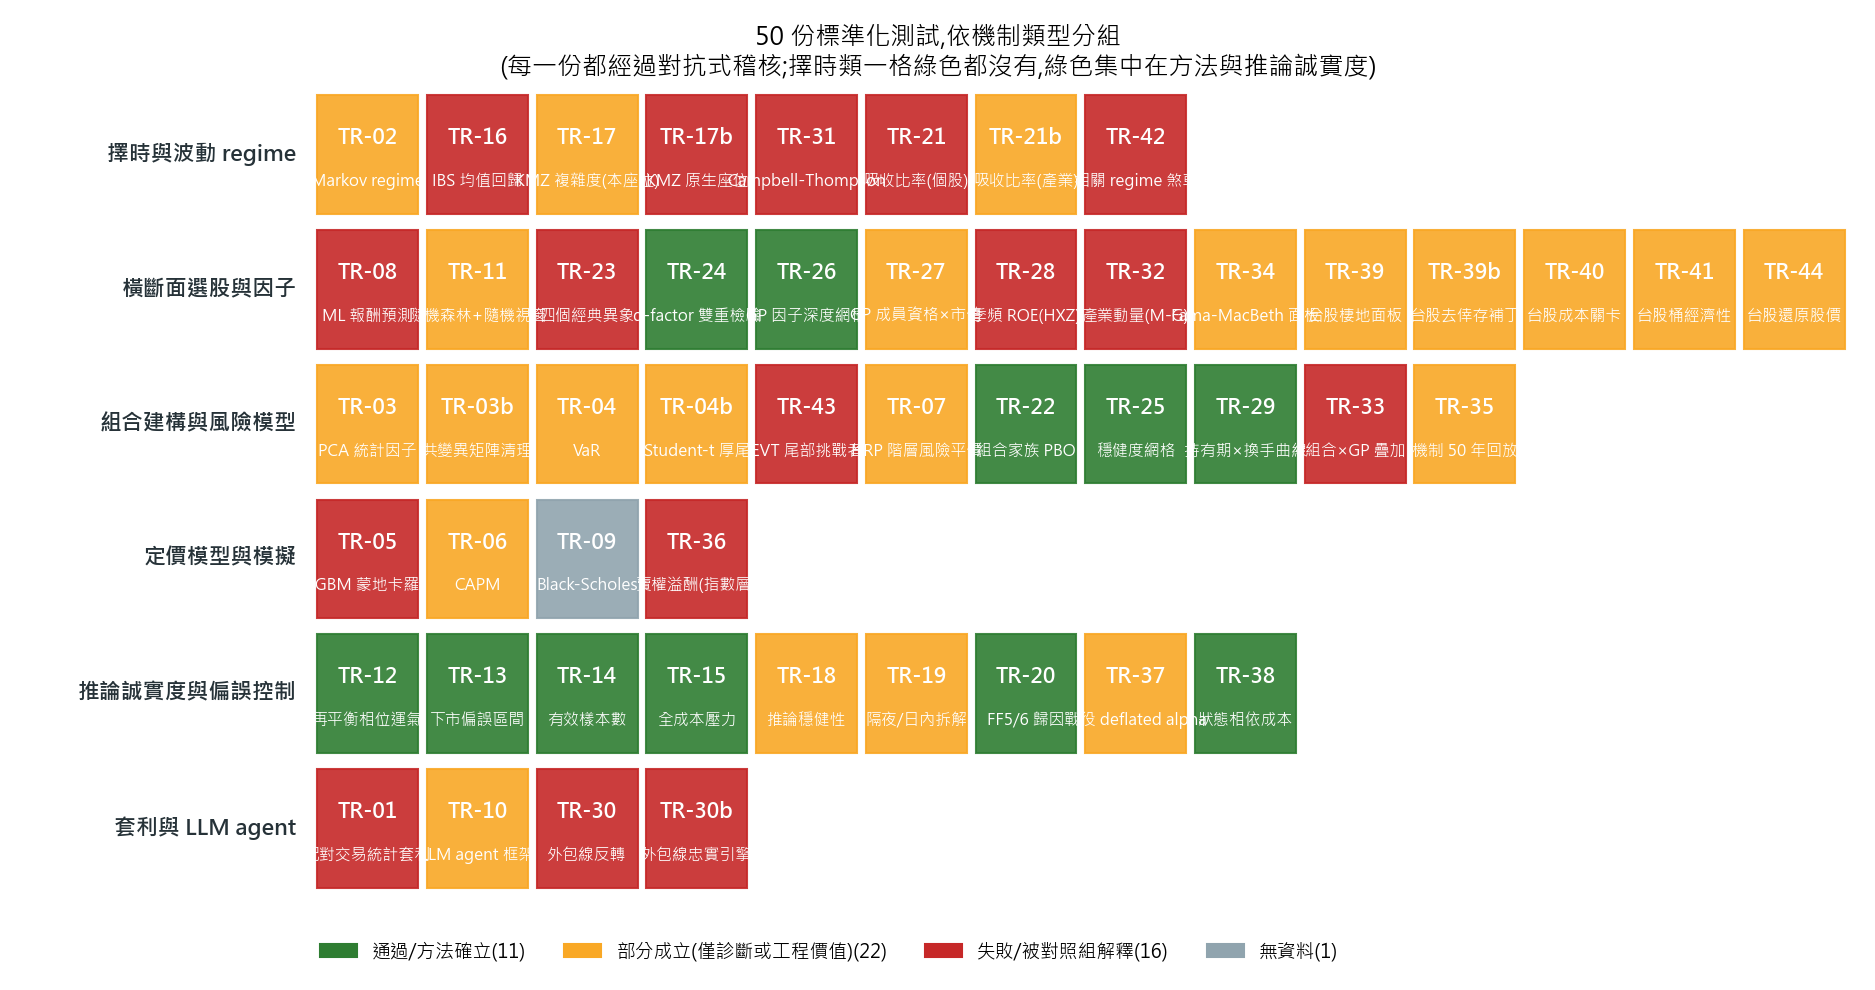
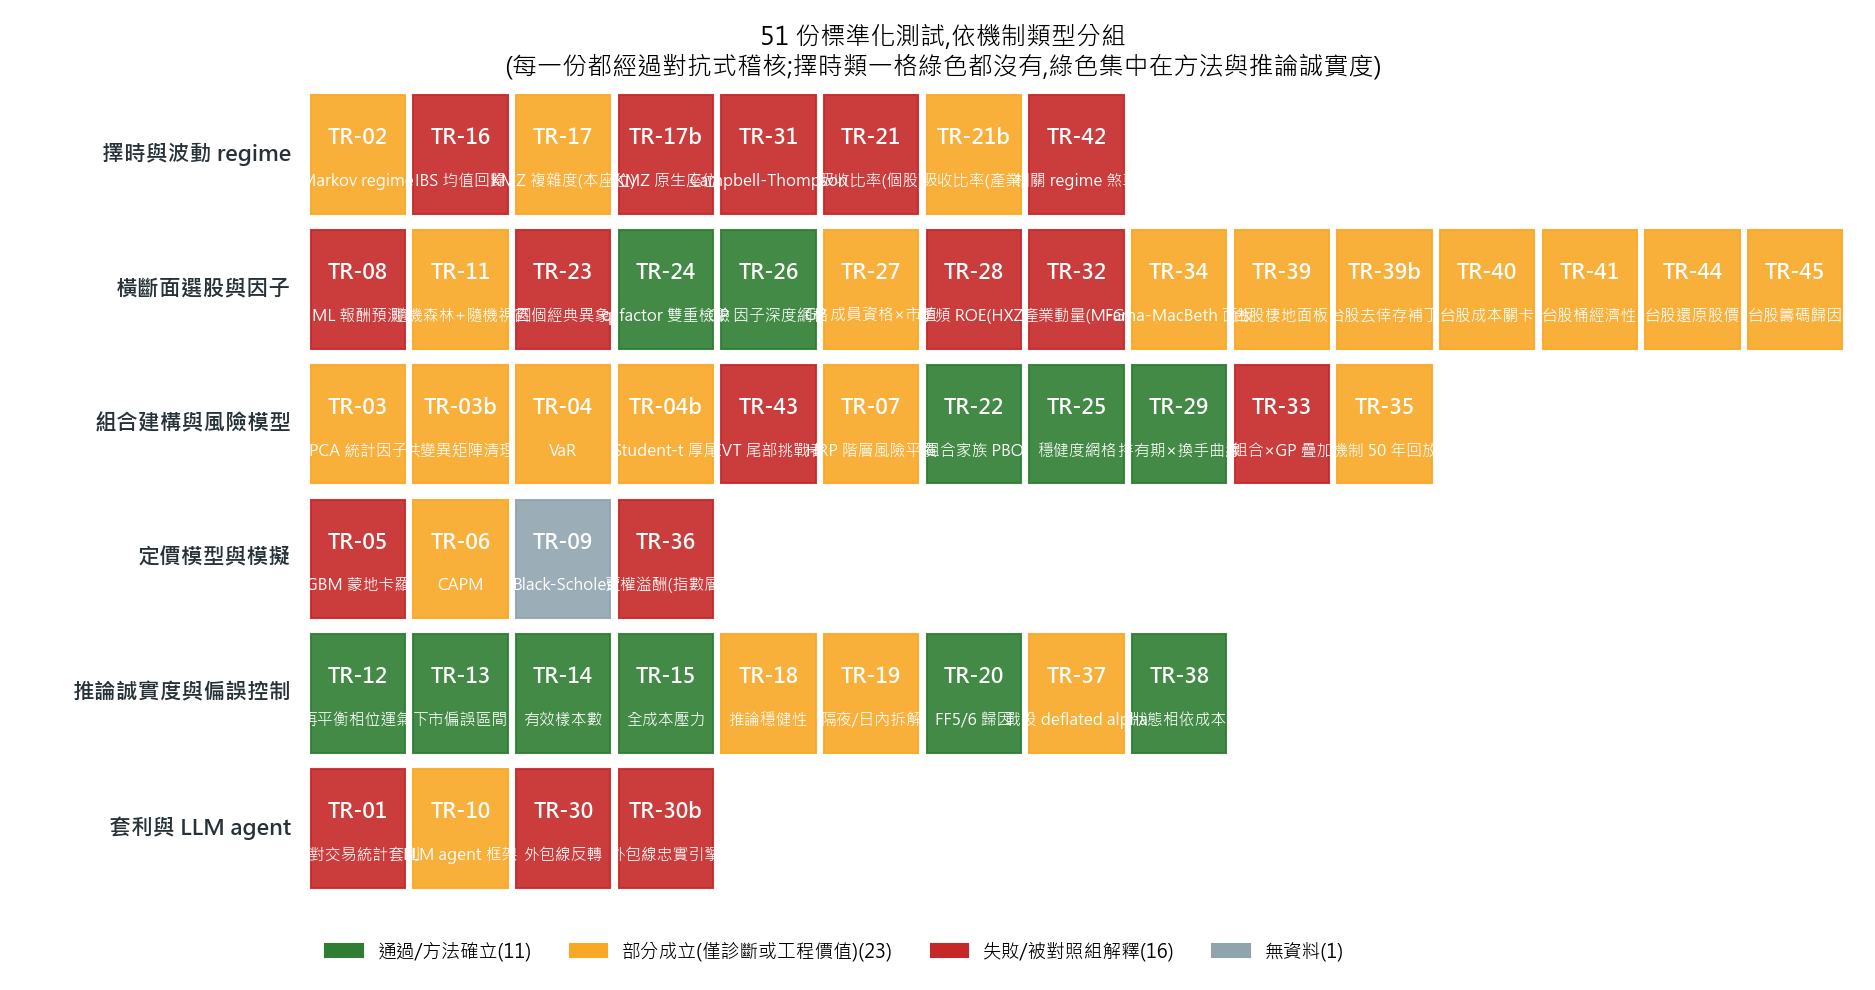
TR-45 (docs/27 b7): chip attribution closes the Taiwan arc -- foreign-flow continuation is a real independent channel (t=3.34) but FAILS-COSTS on the TR-40-faithful excess basis; the as-run absolute-basis SIGNAL was a benchmark artifact caught pre-publication; mom/avol are NOT institutional-flow-car

diff --git a/scripts/tests/tr45_taiwan_chips.py b/scripts/tests/tr45_taiwan_chips.py
@@ -226,22 +226,36 @@ def main():
 
     # ---- C3 cost gate on C1 candidates ----
     print("-" * 104)
-    print("C3 成本關卡(tick 價差模型 2 跳、全額手續費+證交稅、月頻、總報酬 fwd):")
-    spread_m = tick_spread_monthly(px_raw[cols], MULT).reindex(idx)
+    print("C3 成本關卡(TR-40 忠實重用:一切以「相對等權宇宙的超額」計;tick 2 跳、全額費稅、月頻、總報酬 fwd):")
+    # T1 post-run fixes (both caught by the as-run v1 output, recorded in the doc):
+    # (1) suspension rows carry close=0 -> tick/price = inf poisoned the cost series
+    #     (net=-inf); clean prices first -- same zero-price contamination TR-39 hit.
+    # (2) v1 measured gross/net ABSOLUTE; TR-40's machinery scores everything as
+    #     EXCESS over the EW universe (its CAL-a even gates on gross excess >=
+    #     +40bps/mo). On an absolute basis every long-only decile "survives" a bull
+    #     window -- the v1 SIGNAL verdict was a benchmark artifact, not a finding.
+    spread_m = tick_spread_monthly(px_raw[cols].where(px_raw[cols] > 0), MULT).reindex(idx)
+    ew = fwd.mean(axis=1)
     c3 = {}
     for k in TRIO:
         if abs(c1[k][1]) < 2:
             continue
         sgn = int(np.sign(c1[k][0]))
         port = decile_portfolio(trio[k], fwd, sgn, spread_m, 1, COMMISSION_FULL)
-        net = port["gross"] - port["cost"]
-        g_ann, n_ann = float(port["gross"].mean() * 12), float(net.mean() * 12)
+        ex_g = port["gross"] - ew.reindex(port.index)
+        net = ex_g - port["cost"]
+        g_abs = float(port["gross"].mean() * 12)
+        g_ann, n_ann = float(ex_g.mean() * 12), float(net.mean() * 12)
+        gm, _ = nw_t(ex_g)
         _, t_net = nw_t(net)
-        tier = ("SURVIVES-COSTS" if t_net >= 2 else
+        gate40 = gm >= 0.0040
+        tier = ("SURVIVES-COSTS" if (t_net >= 2 and n_ann > 0) else
                 "MARGINAL" if (n_ann > 0 or t_net >= 1) else "FAILS-COSTS")
         c3[k] = (g_ann, n_ann, t_net, tier, net)
-        print(f"  {k:<8} 方向 {sgn:+d}  毛 {g_ann*100:+5.2f}%/yr  淨 {n_ann*100:+5.2f}%/yr"
-              f"  t(淨)={t_net:+5.2f}  -> {tier}(中位換手 {port['churn'].median()*100:.0f}%/mo)")
+        print(f"  {k:<8} 方向 {sgn:+d}  絕對毛 {g_abs*100:+5.2f}%/yr | 超額毛 {g_ann*100:+5.2f}%/yr"
+              f"({gm*1e4:+.0f}bps/mo,TR-40 的 ≥+40bps 閘門:{'過' if gate40 else '不過'})"
+              f" | 超額淨 {n_ann*100:+5.2f}%/yr t={t_net:+5.2f}"
+              f" -> {tier}(中位換手 {port['churn'].median()*100:.0f}%/mo)")
         lad = []
         for d in range(10):
             lo, hi = d / 10, (d + 1) / 10
@@ -253,10 +267,10 @@ def main():
                 sel = s[(s.rank(pct=True) > lo) & (s.rank(pct=True) <= hi)].index
                 f = fwd.loc[t_, sel].dropna()
                 if len(f):
-                    r.append(f.mean())
+                    r.append(f.mean() - ew.loc[t_])
             lad.append(np.mean(r) * 12 * 100 if r else np.nan)
         c3[k] = (*c3[k], lad)
-        print(f"    十分位毛梯(D10 最強→D1):{' '.join(f'{v:+.1f}' for v in lad[::-1])}")
+        print(f"    十分位超額毛梯(D10 最強→D1):{' '.join(f'{v:+.1f}' for v in lad[::-1])}")
 
     # ---- C4 attribution ----
     print("-" * 104)
@@ -316,7 +330,8 @@ def main():
         k0 = (surv or cands)[0]
         lad = c3[k0][5]
         ax.bar(range(1, 11), lad, color="#1565c0")
-        ax.set_title(f"C3 {k0} 十分位毛報酬階梯(%/yr,D10=最強)")
+        ax.axhline(0, c="k", lw=0.6)
+        ax.set_title(f"C3 {k0} 十分位超額毛報酬(%/yr vs 等權宇宙,D10=最強)")
         ax.set_xlabel("decile(依 fitted 方向)")
     else:
         ax.text(0.5, 0.5, "無 |t|>=2 候選 → 無成本關卡", ha="center", va="center")

diff --git a/scripts/readme_figs.py b/scripts/readme_figs.py
@@ -45,6 +45,7 @@ GROUPS = [
         ("TR-40", "台股成本關卡", "Taiwan cost gate", "M"),
         ("TR-41", "台股桶經濟性", "Taiwan bucket economics", "M"),
         ("TR-44", "台股還原股價", "Taiwan total-return", "M"),
+        ("TR-45", "台股籌碼歸因", "Taiwan chip attribution", "M"),
     ]),
     ("組合建構與風險模型", "Portfolio construction & risk models", [
         ("TR-03", "PCA 統計因子", "PCA statistical factors", "M"),
@@ -91,9 +92,9 @@ LEGEND = {
            "F": "failed / explained by controls", "X": "no data"},
 }
 TITLES = {
-    "zh": "50 份標準化測試,依機制類型分組\n"
+    "zh": "51 份標準化測試,依機制類型分組\n"
           "(每一份都經過對抗式稽核;擇時類一格綠色都沒有,綠色集中在方法與推論誠實度)",
-    "en": "All 50 standardized tests, grouped by mechanism type\n"
+    "en": "All 51 standardized tests, grouped by mechanism type\n"
           "(every report adversarially audited; the timing row has no green at all)",
 }
 

diff --git a/docs/tests/TR-45-taiwan-chips.md b/docs/tests/TR-45-taiwan-chips.md
@@ -1,0 +1,89 @@
+# TR-45 — 台股籌碼線:誰在推「延續市場」?(docs/27 b7 / docs/28 p1)
+
+> 台股弧線(TR-39~44)收尾時留下兩個問題:(1) 已證實的延續機制(mom+、avol+)**是誰在推**?
+> (2) 在唯一橫斷面還活著的棲地,先驗最強的未用維度(籌碼)有沒有一個乾淨候選?本 TR 用一個
+> 預先登記家族同時回答。**F0 於滴灌進行中預先登記(commit `bc3c1fb`,資料落地前)**;API 欄位
+> 事前實測(流向單位=股、每檔 2012-05 起;融資單位=張)。收集:法人買賣超+融資融券
+> 1,220/1,220 檔(流向缺 51、融資缺 84=下市/不可融資,結構性)。
+> 腳本:`scripts/tests/tr45_taiwan_chips.py` · 圖:`docs/tests/img/tr45_taiwan_chips.png`
+
+## 判定:**MECHANISM-CONFIRMED / MARGINAL——外資流延續為真(fnet60 t=3.34,八特徵聯合仍 t=2.91),但預先登記的頂十分位組合在 TR-40 忠實超額基準下 FAILS-COSTS(超額毛僅 +0.74%/yr,淨 −4.12%/yr,t=−2.51);台股線維持「機制為真、無乾淨可交易候選」**
+
+### CAL(三腿全過)
+
+| CAL | 結果 | 門檻 | 判 |
+|---|---|---|---|
+| a:bottom-up 外資淨買金額 vs 官方聚合 | corr **+0.996** | 0.90(範圍差已預先聲明) | ✓ |
+| b:融資逐日恆等式(今日=昨日+買−賣−現償) | **100.00%**(n=3,260,934) | 99% | ✓ |
+| c:八特徵聯合覆蓋 | 中位 **808 檔/月**,100% 月份 ≥500 | 500/90% | ✓ |
+
+### ⚠️ POST-RUN AUDIT NOTE(兩處 as-run 機器不忠實,發表前抓到;F0 未改)
+
+1. **零價格污染**:停牌列 close=0 → tick/價格 = ∞ 毒穿成本序列(淨=−inf,輸出自曝)。
+   與 TR-39 同型;先清洗再算價差。
+2. **絕對 vs 超額基準(關鍵)**:v1 的 C3 用**絕對**報酬計毛/淨,印出「SIGNAL——第一個乾淨
+   候選」。對照 TR-40 原機器稽核發現其全程以**相對等權宇宙的超額**計分(CAL-a 還先要求毛超額
+   ≥+40bps/mo 才准進成本測試)——在 +17%/yr 的多頭窗,絕對基準下**任何** long-only 十分位都會
+   「過關」。**v1 的 SIGNAL 是基準錯置的假象,不是發現**。修正後 C3 翻為 FAILS-COSTS。
+   教訓入慣例:**long-only 桶的成本判定一律以超額(vs 等權宇宙)計**。
+
+### C1 籌碼三特徵聯合 FM(月頻,NW t)
+
+| 特徵 | 建構 | 先驗 | 斜率(bps/mo) | t | 判 |
+|---|---|---|---|---|---|
+| **fnet60** | 外資 60 日淨買金額/成交金額 | + | **+78.4** | **+3.34** | **候選** |
+| itnet60 | 投信同構 | + | +22.0 | +1.48 | 不顯著 |
+| dmgn60 | 融資使用率 60 日變化 | **−**(擁擠反轉) | +48.8 | +1.85 | 不顯著;**符號與先驗相反** |
+
+dmgn60 的正號是一個誠實的方向性證偽:散戶槓桿流入在台股**延續**而非反轉——與整個
+「延續市場」性格一致(對照 corr(dmgn60, avol)=+0.38:融資活動追蹤異常量=散戶注意力)。
+
+### C2 歸因(F0 預先陳述的判讀:mom/avol 衰減 >1/3?——**答案:否**)
+
+| 特徵 | 五特徵 | 八特徵(加籌碼) | 衰減 |
+|---|---|---|---|
+| mom122 | +86.7(t=2.53) | **+92.4(t=2.77)** | −7%(反而增強) |
+| avol | +99.7(t=3.75) | **+89.8(t=3.49)** | +10% |
+| max5(已退役) | +31.5(t=0.66) | −1.5(t=−0.03) | **+105%(被完全吸收)** |
+| logdv | −79.1(t=−2.15) | −46.1(t=−1.29) | **+42%** |
+| fnet60(八特徵內) | — | +43.7(**t=2.91**) | 獨立訊號 |
+
+**歸因結論**:(1) **動能與異常量不是外資流扛的**——加入籌碼後幾乎不動,延續市場不能化約為
+「外資在推」;fnet60 是與它們並立的**獨立**第四條延續通道。(2) 已退役的 max5 被籌碼完全吸收
+——樂透特徵原來全是流向相關的雜訊。(3) logdv 衰減 42%(t 掉到 −1.29):低流動性溢酬與
+「流向缺席」部分重疊——與 TR-44 的降級同向,再次支持它是結構性補償而非可套利異象。
+(4) C4:最冷門 logdv-D1 桶的三個籌碼特徵全在市場中位(+0.01~+0.04)——**冷角落的溢酬不是
+流向現象**(Amihud-Mendelson 結構性解讀成立)。
+
+### C3 成本關卡(TR-40 忠實重用:超額基準、tick 2 跳、全額費稅、月頻、總報酬 fwd)
+
+fnet60 頂十分位:絕對毛 +17.57%/yr,但**超額毛僅 +0.74%/yr(+6bps/mo)**——TR-40 的
+≥+40bps/mo 毛閘門差 7 倍;扣 40%/mo 換手的全額成本後**超額淨 −4.12%/yr(t=−2.51)**
+→ **FAILS-COSTS**。
+
+十分位超額毛梯(D10→D1):**+0.8 +4.0 +2.4 +4.0 +2.7 +1.5 −1.3 −3.7 −3.8 −5.8**——
+**駝峰+瀰散**:溢酬在 D7–D9(+2.4~+4.0),極端頂端回落(+0.8,追極端外資買超=過熱),
+底半邊全負。「錢」其實在**避開外資賣最兇的那半邊**(D1 −5.8%/yr)——那是放空側,而台股
+借券受限(F0 誠實界線;b4 未開)。與 TR-41 的 logdv 懸崖相反,fnet60 沒有可集中的角落。
+
+![TR-45 chart](img/tr45_taiwan_chips.png)
+
+## 誠實範圍
+
+- 流向資料 2012-05 起(API 實測,短於價格面板但完整覆蓋 2014+ 評估窗);單一 regime 弧。
+- 月頻時鐘排除當日流向-報酬內生性,月內回饋仍在——斜率讀作預測性關聯,歸因是主交付。
+- C3 交易方向照 F0 用 fitted 符號(+1);頂十分位規格 F0 鎖定,駝峰段(D7–D9)**不可**事後
+  改選(那是 HARKing;若要測 D7–D9 需新的預先登記)。
+- 融資特徵僅存在於可融資名單(結構性,非倖存偏誤);試驗會計 +1(單一規格,無網格)。
+
+## 後果
+
+- **台股 b 系列(b2/b3/b6/b7)全部完成**。最終狀態不變且更完整:**機制為真——四條延續通道
+  (動能、異常量、外資流、[融資流方向性一致但未過線])+一條結構性流動性補償——但在總報酬+
+  全額成本+超額基準下,沒有任何一個乾淨可交易候選**。
+- 歸因紅利:max5 退役的「為什麼」補上了(流向雜訊);logdv 的結構性解讀二度加固。
+- docs/18 加 TR-45 列;docs/27 b7 ✅;README 計數 50→51、台股底線加歸因子句。
+- 教訓入 fabric 慣例:成本判定的超額基準(見 AUDIT NOTE 2)。
+
+*2026-07-21。F0 預先登記於 commit `bc3c1fb`(資料落地前);兩處機器不忠實(零價格、基準錯置)
+發表前修正並全文記錄;判定照 F0 路由:MECHANISM-CONFIRMED / MARGINAL。*

diff --git a/README.md b/README.md
@@ -10,7 +10,7 @@
 
 ### What this is
 
-A personal research project. It started with a finding we couldn't ignore: **McLean & Pontiff (2016, *Journal of Finance*)** re-tested 97 published return predictors and found their returns average **26% lower out-of-sample and 58% lower after publication** — the market eats published edges. So the question became: *of everything floating around the internet, papers, and guru books, how much survives an honest test run today?* Using $0/month of free data (yfinance, SEC EDGAR, public archives), across 100+ commits and **~150 mechanisms/strategies tested (50 standardized test reports, every one adversarially audited)**, the answer turned out to be more valuable than the question — because it turned *"what do we know, what don't we know, and how do we decide what's feasible"* into reproducible code and documents.
+A personal research project. It started with a finding we couldn't ignore: **McLean & Pontiff (2016, *Journal of Finance*)** re-tested 97 published return predictors and found their returns average **26% lower out-of-sample and 58% lower after publication** — the market eats published edges. So the question became: *of everything floating around the internet, papers, and guru books, how much survives an honest test run today?* Using $0/month of free data (yfinance, SEC EDGAR, public archives), across 100+ commits and **~150 mechanisms/strategies tested (51 standardized test reports, every one adversarially audited)**, the answer turned out to be more valuable than the question — because it turned *"what do we know, what don't we know, and how do we decide what's feasible"* into reproducible code and documents.
 
 ### The bottom line (as of 2026-07)
 
@@ -18,14 +18,14 @@ A personal research project. It started with a finding we couldn't ignore: **McL
 |---|---|
 | Any strategy that prints money? | **No.** The 50%-CAGR-at-low-drawdown target zone is structurally empty — everything we tested sits on the same Calmar ≈ 0.6 ray. |
 | Any real alpha at all? | **One, borderline.** The 5-sleeve risk-parity book: monthly Carhart t=2.64, below the strict 3.0 bar. Its real deliverable is risk-shaping, levered to your budget. Selection-honest deflation (TR-37): P(the alpha is real) ≈ 0.87 at the 17 combo-level trials we actually ran, 0.56 under the paranoid all-campaign count, ≈ 0.8 under a 90%-null skeptical prior — most likely real, but no honest angle calls it certain. |
-| Any stock-picking signal? | **One, and it keeps getting more honest.** Gross profitability — headline ICIR +0.30, but masked to actual index members at each date it retains only 59% (ICIR +0.13, TR-27), and its IC turned negative in 2025-26 (on watch); a joint Fama-MacBeth panel sharpens the watch — independently priced in 2015-2020 (t=+2.67), flat since 2021 (TR-34). Momentum, value, PEAD, insider, ML forecasters, and four classic anomalies all failed; industry momentum replicates but is pure momentum-factor exposure (TR-32). And the two survivors do not stack: a GP sleeve subtracts alpha from the flagship book (TR-33 — the honest chain ends at a +0.04%/yr tradable spread). First crack of light from a new habitat: on the Taiwan panel (1,151 TWSE stocks, TR-39) four characteristics cleared t≥2 jointly — and the survivorship patch (TR-39b: official TWSE delisted list + a pandas pct_change ffill backdoor caught by CAL) then split them: momentum (+84bps/mo, t=2.4), abnormal volume (+94, t=3.4) and illiquidity (−106, t=−2.8) are CONFIRMED and stronger after 2021, while the MAX lottery premium was retired as survivorship glare. Then the cost gate (TR-40) INVERTED the ranking: the panel's strongest slope (abnormal volume, t=3.4) turns over 6.8x/yr and loses 7.07%/yr to fees, netting t=0.6; the weakest (illiquidity) barely turns over and nets **+6.75%/yr, t=2.3** — the only survivor, robust to a 31-tick break-even spread but capacity-capped, which is what an illiquidity premium *is*. The bucket decomposition (TR-41) then killed the intuitive high-capacity workaround: the premium lives ONLY in the last decile (D2 is already zero, D3-D9 are negative), so "avoid the most crowded names" is a significantly LOSING strategy (−0.92%/yr, t=−2.34) — excluding a good bucket just overweights the bad ones. It survives a skip-a-month stale-price check and decays monotonically with book size: a textbook liquidity compensation, not an anomaly. Final honesty pass (TR-44): re-run on dividend-ADJUSTED total-return prices, all three characteristics keep their sign and the ladder stays a cliff, but net of the real 45bps round trip every candidate is now only MARGINAL (illiquidity t=1.86, momentum t=0.81) — the mechanism is real, but on the strictest basis no candidate clears cleanly. The Taiwan line is a genuine effect that is not a clean tradable edge. |
+| Any stock-picking signal? | **One, and it keeps getting more honest.** Gross profitability — headline ICIR +0.30, but masked to actual index members at each date it retains only 59% (ICIR +0.13, TR-27), and its IC turned negative in 2025-26 (on watch); a joint Fama-MacBeth panel sharpens the watch — independently priced in 2015-2020 (t=+2.67), flat since 2021 (TR-34). Momentum, value, PEAD, insider, ML forecasters, and four classic anomalies all failed; industry momentum replicates but is pure momentum-factor exposure (TR-32). And the two survivors do not stack: a GP sleeve subtracts alpha from the flagship book (TR-33 — the honest chain ends at a +0.04%/yr tradable spread). First crack of light from a new habitat: on the Taiwan panel (1,151 TWSE stocks, TR-39) four characteristics cleared t≥2 jointly — and the survivorship patch (TR-39b: official TWSE delisted list + a pandas pct_change ffill backdoor caught by CAL) then split them: momentum (+84bps/mo, t=2.4), abnormal volume (+94, t=3.4) and illiquidity (−106, t=−2.8) are CONFIRMED and stronger after 2021, while the MAX lottery premium was retired as survivorship glare. Then the cost gate (TR-40) INVERTED the ranking: the panel's strongest slope (abnormal volume, t=3.4) turns over 6.8x/yr and loses 7.07%/yr to fees, netting t=0.6; the weakest (illiquidity) barely turns over and nets **+6.75%/yr, t=2.3** — the only survivor, robust to a 31-tick break-even spread but capacity-capped, which is what an illiquidity premium *is*. The bucket decomposition (TR-41) then killed the intuitive high-capacity workaround: the premium lives ONLY in the last decile (D2 is already zero, D3-D9 are negative), so "avoid the most crowded names" is a significantly LOSING strategy (−0.92%/yr, t=−2.34) — excluding a good bucket just overweights the bad ones. It survives a skip-a-month stale-price check and decays monotonically with book size: a textbook liquidity compensation, not an anomaly. Final honesty pass (TR-44): re-run on dividend-ADJUSTED total-return prices, all three characteristics keep their sign and the ladder stays a cliff, but net of the real 45bps round trip every candidate is now only MARGINAL (illiquidity t=1.86, momentum t=0.81) — the mechanism is real, but on the strictest basis no candidate clears cleanly. The Taiwan line is a genuine effect that is not a clean tradable edge. A chip-flow attribution pass (TR-45, institutional flows + margin balances) completes the picture: foreign-flow continuation is real (t=3.3, independent of the price characteristics) but its top-decile portfolio fails the same excess-basis cost gate (net −4.1%/yr), momentum and abnormal volume are NOT institutional-flow-carried, and the cold-corner illiquidity premium shows median chip activity — a structural compensation, not a flow effect. |
 | Does market timing work? | **No — eight separate confirmations, and the law is broader than we thought.** A dumb constant exposure or a random control matched or beat every timing mechanism tested (Markov, IBS, absorption ratio on two seats, KMZ complexity, Campbell-Thompson sign restrictions, the outside bar). The eighth (TR-42) extends it from RETURN timing to RISK-INPUT timing: a bond-equity correlation brake — which forecasts nothing, it only claims the risk model's inputs changed — still lost to a constant at matched average exposure, and landed at the 20th percentile of a random-brake placebo. |
-| Then what's the asset here? | **The method and the data moat.** 50 adversarially audited test reports, a registry where negative results are first-class, seven documented self-corrections, and a $0 data stack with two collect-forward pipelines recording what money can't buy retroactively. |
+| Then what's the asset here? | **The method and the data moat.** 51 adversarially audited test reports, a registry where negative results are first-class, seven documented self-corrections, and a $0 data stack with two collect-forward pipelines recording what money can't buy retroactively. |
 
 ### What we built
 
 1. **An acceptance framework ("fabric" v2.0, [docs/17](docs/17-fabric-acceptance.md))** — a single rule table F0–F13 codifying every mistake we made: pre-committed falsifiable claims (F0), leak-free signals + fill-time conventions (F1), spread-scaled costs with mandatory 2× stress (F2), excess-over-T-bill Sharpe (F3), effective sample sizes (F4), campaign-wide trial accounting with a t≥3.0 alpha bar (F5), **the Nagel control triple — which simplest control explains it?** (F6), sub-period + long-history replay (F7), verdicts scoped to seat×habitat (F8), path randomization (F9), re-test cascades (F10), universe legitimacy (F11), rebalance-phase averaging (F12), and delisting rules (F13). Its economic preamble is **Grossman-Stiglitz**: at $0 information cost, equilibrium alpha is $0 — every re-open condition must be priced as an information cost.
-2. **Fifty standardized test reports** ([docs/tests/TR-01..24 + b-series](docs/tests/)): statistical arbitrage, Markov regime-switching, PCA factor models, covariance cleaning, VaR and fat tails, GBM Monte Carlo, CAPM, HRP, ML forecasting, Black-Scholes (N/A — no data, refused to fabricate), LLM agent frameworks, bagged backtesting, rebalance-phase luck, delisting bias, effective samples, cost stress, the IBS full trial — plus a paper-driven wave: inference robustness (TR-18), overnight/intraday decomposition (TR-19), FF5/6 and q-factor attribution (TR-20/24), four classic anomalies (TR-23), combo PBO (TR-22), and **native-seat replications** of Kelly-Malamud-Zhou's *Virtue of Complexity* (TR-17b) and the absorption ratio (TR-21b) — then a **depth series interrogating our own survivors** (the robustness plateau TR-25, GP depth/membership/quarterly clocks TR-26–28, holding-period economics TR-29, the two-survivor stacking test TR-33), the Goyal-Welch/Campbell-Thompson timing line at its source (TR-31), Moskowitz-Grinblatt industry momentum (TR-32), and a **creator-claim pipeline** that turns YouTube trading mechanisms into pre-registered tests (TR-30/30b). Every report was adversarially audited; the audits reversed our own headline more than once.
+2. **Fifty-one standardized test reports** ([docs/tests/TR-01..24 + b-series](docs/tests/)): statistical arbitrage, Markov regime-switching, PCA factor models, covariance cleaning, VaR and fat tails, GBM Monte Carlo, CAPM, HRP, ML forecasting, Black-Scholes (N/A — no data, refused to fabricate), LLM agent frameworks, bagged backtesting, rebalance-phase luck, delisting bias, effective samples, cost stress, the IBS full trial — plus a paper-driven wave: inference robustness (TR-18), overnight/intraday decomposition (TR-19), FF5/6 and q-factor attribution (TR-20/24), four classic anomalies (TR-23), combo PBO (TR-22), and **native-seat replications** of Kelly-Malamud-Zhou's *Virtue of Complexity* (TR-17b) and the absorption ratio (TR-21b) — then a **depth series interrogating our own survivors** (the robustness plateau TR-25, GP depth/membership/quarterly clocks TR-26–28, holding-period economics TR-29, the two-survivor stacking test TR-33), the Goyal-Welch/Campbell-Thompson timing line at its source (TR-31), Moskowitz-Grinblatt industry momentum (TR-32), and a **creator-claim pipeline** that turns YouTube trading mechanisms into pre-registered tests (TR-30/30b). Every report was adversarially audited; the audits reversed our own headline more than once.
 3. **Working infrastructure**: point-in-time data layer (DuckDB+Parquet; EDGAR aligned to filing dates; 1993+ index history; PIT S&P 500 membership 1996–2026), order-independent backtest engine, rigor modules (PSR/DSR/PBO/SPA), daily Telegram monitors on free GitHub Actions, two **collect-forward pipelines** (daily SPY/QQQ option chains; weekly analyst estimates for the S&P 500 — you cannot download the past, only record the present), a 70-source **data-source catalog** with adopt/reject verdicts ([docs/refs/data-sources.md](docs/refs/data-sources.md)), and a **paper-to-TR pipeline** ([docs/21](docs/21-paper-to-tr-pipeline.md)).
 
 ### Results at a glance
@@ -40,9 +40,9 @@ A personal research project. It started with a finding we couldn't ignore: **McL
 
 **The scoreboard.** 226 named variants registered, 26 mechanism families judged, 5 PASSED — and exactly **one** statistically significant alpha. Most of what the internet calls "a working strategy" died in this funnel; keeping the failed strategies on record is half this repo's value.
 
-![Verdict map of all 50 standardized tests, grouped by mechanism type](docs/img/readme_verdict_map_en.png)
+![Verdict map of all 51 standardized tests, grouped by mechanism type](docs/img/readme_verdict_map_en.png)
 
-**The verdict map (updated 2026-07).** All 50 standardized tests, grouped by *what kind of mechanism* each one judges. Read it by row: the timing/regime row has no green at all; the green lives almost entirely in the inference-honesty row — method, not signals. The 2026-07 additions are the two native-seat replications: KMZ's Virtue of Complexity **replicates on its home turf (Sharpe +0.41 at 12,000 features) and is still fully explained by volatility-timing controls (+0.50)** — Nagel's critique confirmed at the source (TR-17b); the absorption ratio's crash-warning spike **weakly survives on industry portfolios (7/10 vs 33% base rate) while its timing gate lost to a static constant for the fifth time** (TR-21b). The newest wave sharpened all three storylines: Campbell-Thompson's sign restrictions rescue out-of-sample R² directionally and are still spanned by the same volatility controls (TR-31); Moskowitz-Grinblatt industry momentum is the least-decayed mechanism we have ever tested (−2% post-publication vs the −58% McLean-Pontiff average) precisely because it is not an anomaly — it is momentum-factor exposure in industry clothes, with zero alpha over FF5+UMD in every window (TR-32); and a user audit caught our own outside-bar engine being unfaithful to its source on four counts — rebuilt faithfully, the verdict class survived, this time earned (TR-30→30b).
+**The verdict map (updated 2026-07).** All 51 standardized tests, grouped by *what kind of mechanism* each one judges. Read it by row: the timing/regime row has no green at all; the green lives almost entirely in the inference-honesty row — method, not signals. The 2026-07 additions are the two native-seat replications: KMZ's Virtue of Complexity **replicates on its home turf (Sharpe +0.41 at 12,000 features) and is still fully explained by volatility-timing controls (+0.50)** — Nagel's critique confirmed at the source (TR-17b); the absorption ratio's crash-warning spike **weakly survives on industry portfolios (7/10 vs 33% base rate) while its timing gate lost to a static constant for the fifth time** (TR-21b). The newest wave sharpened all three storylines: Campbell-Thompson's sign restrictions rescue out-of-sample R² directionally and are still spanned by the same volatility controls (TR-31); Moskowitz-Grinblatt industry momentum is the least-decayed mechanism we have ever tested (−2% post-publication vs the −58% McLean-Pontiff average) precisely because it is not an anomaly — it is momentum-factor exposure in industry clothes, with zero alpha over FF5+UMD in every window (TR-32); and a user audit caught our own outside-bar engine being unfaithful to its source on four counts — rebuilt faithfully, the verdict class survived, this time earned (TR-30→30b).
 
 ![Flagship 5-sleeve combo vs VOO at L=1 and at a same-risk L=1.5](docs/img/fig_combo.png)
 
@@ -201,7 +201,7 @@ Architecture: UI (Streamlit) → CLI (Typer) → `trading_analysis.api` (only pu
 
 ### 專案概述
 
-一個個人研究的 side project。起點是一篇沒辦法當作沒看到的論文：**McLean 與 Pontiff(2016，《Journal of Finance》)**重測了 97 個已發表的報酬預測訊號，發現這些訊號的報酬平均在**樣本外低了 26%、論文發表之後低了 58%**——公開發表的優勢，會被市場逐步吃掉。所以真正的問題變成：「網路上、論文裡、大師書裡的那些策略，經過誠實的測試、放到今天，還剩下多少？」我們用每月 0 元的免費資料(yfinance、SEC EDGAR、公開檔案庫)，歷經 100 多次 commit、**約 150 個機制/策略的系統性測試(50 份標準化測試報告，每一份都經過對抗式稽核)**，得到的答案比問題本身更有價值，因為它把「什麼是已知、什麼是未知、如何判斷可不可行」變成了可重現的程式與文件。
+一個個人研究的 side project。起點是一篇沒辦法當作沒看到的論文：**McLean 與 Pontiff(2016，《Journal of Finance》)**重測了 97 個已發表的報酬預測訊號，發現這些訊號的報酬平均在**樣本外低了 26%、論文發表之後低了 58%**——公開發表的優勢，會被市場逐步吃掉。所以真正的問題變成：「網路上、論文裡、大師書裡的那些策略，經過誠實的測試、放到今天，還剩下多少？」我們用每月 0 元的免費資料(yfinance、SEC EDGAR、公開檔案庫)，歷經 100 多次 commit、**約 150 個機制/策略的系統性測試(51 份標準化測試報告，每一份都經過對抗式稽核)**，得到的答案比問題本身更有價值，因為它把「什麼是已知、什麼是未知、如何判斷可不可行」變成了可重現的程式與文件。
 
 ### 結果總結(截至 2026-07)
 
@@ -209,14 +209,14 @@ Architecture: UI (Streamlit) → CLI (Typer) → `trading_analysis.api` (only pu
 |---|---|
 | 有會印鈔的策略嗎？ | **沒有。**「50% CAGR＋低回撤」的目標區在結構上就是空的——我們測過的所有東西都落在同一條 Calmar ≈ 0.6 的射線上。 |
 | 有真的 alpha 嗎？ | **有一個，而且只是邊際。**五 sleeve 風險平價組合：月頻 Carhart t=2.64，低於嚴格門檻 3.0。它真正的價值是風險塑形，可依回撤預算加槓桿。選擇誠實化(TR-37)：P(alpha 為真) 在實際跑過的 17 次組合層級試驗下 ≈ 0.87、悲觀全戰役計數下 0.56、九成懷疑先驗下 ≈ 0.8——大概率是真的，但沒有任何誠實的角度能說成確定。 |
-| 有選股訊號嗎？ | **有一個，而且愈測愈誠實。**毛利/資產品質因子——頭條 ICIR +0.30，但遮罩到「當天真的在指數裡」的名字後只保留 59%(ICIR +0.13，TR-27)，且 2025–26 的 IC 轉負(列入觀察)；聯合 Fama-MacBeth 面板把觀察磨得更利——2015–2020 獨立被定價(t=+2.67)，2021 之後歸零(TR-34)。動能、價值、PEAD、內部人、機器學習預測、四大經典異象全數陣亡；產業動量能複製但整條是動量因子曝險(TR-32)。而且兩個倖存者疊不起來：把 GP sleeve 加進主力帳簿反而扣掉 alpha(TR-33——誠實鏈的終點是 +0.04%/yr 的可交易價差)。新棲地透出第一道光：台股面板(1,151 檔 TWSE，TR-39)四個特徵聯合過 t≥2——去倖存補丁(TR-39b：TWSE 官方終止名單+CAL 抓到的 pandas pct_change ffill 後門)隨後把它們分成兩半：動能(+84bps/mo，t=2.4)、異常量(+94，t=3.4)、低流動性(−106，t=−2.8)**確認**且 2021 後更強；MAX 樂透溢價判定為倖存者眩光退役。接著成本關卡(TR-40)把排序**整個翻轉**：面板裡最強的異常量(t=3.4)年換手 6.8 倍、吃掉 7.07% 成本後只剩 t=0.6；最弱的低流動性幾乎不換手，淨賺 **+6.75%/yr、t=2.3**——唯一存活者，對價差假設穩健到損益兩平要 31 跳，但容量有天花板，而這正是低流動性溢酬的定義。桶分解(TR-41)接著殺掉了直覺上的高容量替代方案：溢酬**只住在最尾端那一格**(D2 已歸零、D3–D9 全負)，所以「避開最擁擠的股票」是個**顯著虧損**的策略(−0.92%/yr，t=−2.34)——排除一個好桶只會讓你重壓在壞桶上。它通過跳月的停滯價檢查，並隨資金規模單調衰減：教科書式的流動性補償，不是異象。最終誠實化(TR-44)：改用還原(總報酬)股價重跑，三個特徵的符號與階梯懸崖全部維持，但扣掉真實 45bps 來回成本後，每個候選都只剩 MARGINAL(低流動性 t=1.86、動能 t=0.81)——機制為真，但在最嚴格基準下沒有一個乾淨過關。台股線是個真實但稱不上乾淨可交易的效應。 |
+| 有選股訊號嗎？ | **有一個，而且愈測愈誠實。**毛利/資產品質因子——頭條 ICIR +0.30，但遮罩到「當天真的在指數裡」的名字後只保留 59%(ICIR +0.13，TR-27)，且 2025–26 的 IC 轉負(列入觀察)；聯合 Fama-MacBeth 面板把觀察磨得更利——2015–2020 獨立被定價(t=+2.67)，2021 之後歸零(TR-34)。動能、價值、PEAD、內部人、機器學習預測、四大經典異象全數陣亡；產業動量能複製但整條是動量因子曝險(TR-32)。而且兩個倖存者疊不起來：把 GP sleeve 加進主力帳簿反而扣掉 alpha(TR-33——誠實鏈的終點是 +0.04%/yr 的可交易價差)。新棲地透出第一道光：台股面板(1,151 檔 TWSE，TR-39)四個特徵聯合過 t≥2——去倖存補丁(TR-39b：TWSE 官方終止名單+CAL 抓到的 pandas pct_change ffill 後門)隨後把它們分成兩半：動能(+84bps/mo，t=2.4)、異常量(+94，t=3.4)、低流動性(−106，t=−2.8)**確認**且 2021 後更強；MAX 樂透溢價判定為倖存者眩光退役。接著成本關卡(TR-40)把排序**整個翻轉**：面板裡最強的異常量(t=3.4)年換手 6.8 倍、吃掉 7.07% 成本後只剩 t=0.6；最弱的低流動性幾乎不換手，淨賺 **+6.75%/yr、t=2.3**——唯一存活者，對價差假設穩健到損益兩平要 31 跳，但容量有天花板，而這正是低流動性溢酬的定義。桶分解(TR-41)接著殺掉了直覺上的高容量替代方案：溢酬**只住在最尾端那一格**(D2 已歸零、D3–D9 全負)，所以「避開最擁擠的股票」是個**顯著虧損**的策略(−0.92%/yr，t=−2.34)——排除一個好桶只會讓你重壓在壞桶上。它通過跳月的停滯價檢查，並隨資金規模單調衰減：教科書式的流動性補償，不是異象。最終誠實化(TR-44)：改用還原(總報酬)股價重跑，三個特徵的符號與階梯懸崖全部維持，但扣掉真實 45bps 來回成本後，每個候選都只剩 MARGINAL(低流動性 t=1.86、動能 t=0.81)——機制為真，但在最嚴格基準下沒有一個乾淨過關。台股線是個真實但稱不上乾淨可交易的效應。籌碼歸因(TR-45，法人買賣超+融資融券)補完全貌：外資流延續為真(t=3.3，獨立於價格特徵)但其頂十分位組合同樣過不了超額基準的成本關卡(淨 −4.1%/yr)；動能與異常量**不是**外資流扛的；最冷門角落的籌碼活動全在中位——流動性溢酬是結構性補償，不是流向現象。 |
 | 擇時有用嗎？ | **沒有——八次獨立確認，而且這條鐵律比我們原本以為的更廣。**一個恆定部位或隨機對照，就能追平或打敗我們測過的每一個擇時機制(Markov、IBS、吸收比率兩個座位、KMZ 複雜度、Campbell-Thompson 符號約束、外包線)。第八次(TR-42)把它從**報酬擇時**擴大到**風險輸入型擇時**：一個股債相關煞車——它不預測任何報酬，只宣稱風險模型的輸入變了——仍然輸給同平均曝險的恆定部位，而且只落在隨機煞車安慰劑的第 20 百分位。 |
-| 那這個專案的資產是什麼？ | **方法本身，加上資料護城河。**50 份經對抗式稽核的測試報告、一份把負面結果當一等公民的註冊表、七次白紙黑字的自我修正，以及 $0 的資料堆疊與兩條「現在不錄、以後買不到」的前向收集管線。 |
+| 那這個專案的資產是什麼？ | **方法本身，加上資料護城河。**51 份經對抗式稽核的測試報告、一份把負面結果當一等公民的註冊表、七次白紙黑字的自我修正，以及 $0 的資料堆疊與兩條「現在不錄、以後買不到」的前向收集管線。 |
 
 ### 建置內容
 
 1. **一套驗收標準(fabric v2.0，[docs/17](docs/17-fabric-acceptance.md))**：單一規則表 F0–F13，把每一次踩過的坑逐條寫成明文規則：動工前先定案的可證偽宣稱(F0)、無洩漏訊號與成交時點慣例(F1)、以買賣價差縮放的成本加上強制 2× 壓力測試(F2)、扣除國庫券利率後的超額 Sharpe(F3)、有效樣本數(F4)、全 campaign 試驗數記帳與 alpha 門檻 t≥3.0(F5)、**Nagel 三重對照：「哪一個最簡單的對照組就能解釋它？」**(F6)、子期穩定與長歷史重放(F7)、判定效力=適用市場×適用情境(F8)、路徑隨機化(F9)、複測級聯(F10)、標的池合法性(F11)、再平衡相位平均(F12)、下市規則(F13)。經濟學前提是 **Grossman-Stiglitz**：資訊成本 0 元，均衡下的 alpha 就是 0 元；每個翻案條件都必須計為一筆資訊成本。
-2. **50 份標準化測試報告**([docs/tests/TR-01..24 + b 系列](docs/tests/))：統計套利、Markov 狀態轉換、PCA 因子模型、共變異清理、VaR 與厚尾、GBM 蒙地卡羅、CAPM、HRP、機器學習預測、Black-Scholes(N/A：沒有資料就不硬湊數字)、LLM agent 框架、bagged 回測、再平衡相位運氣、下市偏誤、有效樣本、成本壓力、IBS 完整檢驗，加上一整波由經典論文驅動的重測：推論穩健性(TR-18)、隔夜/日內拆解(TR-19)、FF5/6 與 q-factor 歸因(TR-20/24)、四個經典異象(TR-23)、組合 PBO(TR-22)，以及把 KMZ《複雜度的美德》(TR-17b)與吸收比率(TR-21b)搬回**論文原生棲地**的重測——之後是**對自家倖存者的深度審訊系列**(穩健度高原 TR-25、GP 深度/成員資格/季頻時鐘 TR-26–28、持有期經濟學 TR-29、兩倖存者疊加終審 TR-33)、回到源頭的 Goyal-Welch/Campbell-Thompson 擇時線(TR-31)、Moskowitz-Grinblatt 產業動量(TR-32)，以及把 YouTube 交易機制轉成預先登記測試的**創作者宣稱管線**(TR-30/30b)。每一份報告都經過對抗式稽核，而且稽核不只一次推翻了我們自己的頭條讀數。
+2. **51 份標準化測試報告**([docs/tests/TR-01..24 + b 系列](docs/tests/))：統計套利、Markov 狀態轉換、PCA 因子模型、共變異清理、VaR 與厚尾、GBM 蒙地卡羅、CAPM、HRP、機器學習預測、Black-Scholes(N/A：沒有資料就不硬湊數字)、LLM agent 框架、bagged 回測、再平衡相位運氣、下市偏誤、有效樣本、成本壓力、IBS 完整檢驗，加上一整波由經典論文驅動的重測：推論穩健性(TR-18)、隔夜/日內拆解(TR-19)、FF5/6 與 q-factor 歸因(TR-20/24)、四個經典異象(TR-23)、組合 PBO(TR-22)，以及把 KMZ《複雜度的美德》(TR-17b)與吸收比率(TR-21b)搬回**論文原生棲地**的重測——之後是**對自家倖存者的深度審訊系列**(穩健度高原 TR-25、GP 深度/成員資格/季頻時鐘 TR-26–28、持有期經濟學 TR-29、兩倖存者疊加終審 TR-33)、回到源頭的 Goyal-Welch/Campbell-Thompson 擇時線(TR-31)、Moskowitz-Grinblatt 產業動量(TR-32)，以及把 YouTube 交易機制轉成預先登記測試的**創作者宣稱管線**(TR-30/30b)。每一份報告都經過對抗式稽核，而且稽核不只一次推翻了我們自己的頭條讀數。
 3. **已建置的基礎設施**：point-in-time 資料層(DuckDB+Parquet；EDGAR 以申報日對齊；指數歷史回溯 1993；S&P 500 成分股 PIT 面板 1996–2026)、order-independent 回測引擎、嚴謹度模組(PSR/DSR/PBO/SPA)、每日 Telegram 監控(跑在免費的 GitHub Actions 上)、兩條**前向收集管線**(每日 SPY/QQQ 選擇權鏈快照；每週 S&P 500 分析師預估快照。過去買不到，只能從今天開始記錄)、一份含採用/不採用判定的 **70 個資料源目錄**([docs/refs/data-sources.md](docs/refs/data-sources.md))，以及**論文到 TR 管線**([docs/21](docs/21-paper-to-tr-pipeline.md))。
 
 ### 成果一覽
@@ -231,9 +231,9 @@ Architecture: UI (Streamlit) → CLI (Typer) → `trading_analysis.api` (only pu
 
 **計分板。** 226 個具名變體登記在案、26 類機制接受檢驗、5 個 PASSED，而統計顯著的 alpha 恰好只有 **1 個**。網路上大多數所謂「有效的策略」都死在這個漏斗裡；把這些失敗的策略完整記錄下來，正是這個 repo 一半的價值。
 
-![50 份標準化測試，依機制類型分組的判定分布](docs/img/readme_verdict_map.png)
+![51 份標準化測試，依機制類型分組的判定分布](docs/img/readme_verdict_map.png)
 
-**判定全景(2026-07 更新)。** 50 份標準化測試，依照「它在檢驗哪一種機制」分組。用橫列來讀：擇時與 regime 那一列一格綠色都沒有；綠色幾乎全部集中在「推論誠實度」那一列——通過的是方法，不是訊號。2026-07 新增的兩份原生棲地重測值得單獨說：KMZ 的複雜度美德**回到論文自己的棲地確實複現(12,000 個特徵時 Sharpe +0.41)，但仍然被波動擇時對照組(+0.50)完整蓋過**，Nagel 的批評在源頭獲得確認(TR-17b)；吸收比率的崩盤預警尖峰**在產業組合上弱存活(10 次大跌命中 7 次，基準率 33%)，它的擇時閘門則第五次輸給一個恆定部位**(TR-21b)。最新一波把三條故事線都磨得更利：Campbell-Thompson 的符號約束確實在方向上救回樣本外 R²，但仍被同一組波動對照張成(TR-31)；Moskowitz-Grinblatt 產業動量是我們測過**發表後衰退最少**的機制(−2%，對比 McLean-Pontiff 平均 −58%)——不衰退恰恰因為它不是異象，而是穿產業外衣的動量因子曝險，對 FF5+UMD 在每個時間窗 alpha 都歸零(TR-32)；還有一次使用者稽核抓到我們自己的外包線引擎對來源四處不忠實——忠實重建後判定同類，這次是掙來的(TR-30→30b)。
+**判定全景(2026-07 更新)。** 51 份標準化測試，依照「它在檢驗哪一種機制」分組。用橫列來讀：擇時與 regime 那一列一格綠色都沒有；綠色幾乎全部集中在「推論誠實度」那一列——通過的是方法，不是訊號。2026-07 新增的兩份原生棲地重測值得單獨說：KMZ 的複雜度美德**回到論文自己的棲地確實複現(12,000 個特徵時 Sharpe +0.41)，但仍然被波動擇時對照組(+0.50)完整蓋過**，Nagel 的批評在源頭獲得確認(TR-17b)；吸收比率的崩盤預警尖峰**在產業組合上弱存活(10 次大跌命中 7 次，基準率 33%)，它的擇時閘門則第五次輸給一個恆定部位**(TR-21b)。最新一波把三條故事線都磨得更利：Campbell-Thompson 的符號約束確實在方向上救回樣本外 R²，但仍被同一組波動對照張成(TR-31)；Moskowitz-Grinblatt 產業動量是我們測過**發表後衰退最少**的機制(−2%，對比 McLean-Pontiff 平均 −58%)——不衰退恰恰因為它不是異象，而是穿產業外衣的動量因子曝險，對 FF5+UMD 在每個時間窗 alpha 都歸零(TR-32)；還有一次使用者稽核抓到我們自己的外包線引擎對來源四處不忠實——忠實重建後判定同類，這次是掙來的(TR-30→30b)。
 
 ![主力五 sleeve 組合 vs VOO：L=1 與同風險 L=1.5 兩條線](docs/img/fig_combo.png)
 

diff --git a/docs/27-open-items.md b/docs/27-open-items.md
@@ -8,7 +8,7 @@
 ## 0. 一眼看懂:現在卡在哪
 
 - **有三件事在等資料滴灌**(Tiingo 29%、AV 10%),不需要決策,只需要時間。
-- **台股線已完結**(b2/b3/b6 全做完):機制為真(斜率顯著、階梯懸崖、啞鈴),但在**總報酬+全額成本**的最嚴格基準下(TR-44)三候選**全為 MARGINAL**——真實效應,但稱不上乾淨可交易。容量上限 NT$1,500 萬。
+- **台股線已完結**(b2/b3/b6/b7 全做完):機制為真(斜率顯著、階梯懸崖、啞鈴),但在**總報酬+全額成本+超額基準**下無一乾淨候選(TR-44/45)。籌碼歸因(TR-45)補上:外資流延續是獨立的第四條通道(t=2.91)但同樣過不了成本關;動能/異常量**不是**外資流扛的。容量上限 NT$1,500 萬。
 - **有一個大工程沒開工**:風險引擎 v2(docs/25 C 期)——TR-35 已經給了它實證錨,但還沒動。
 - **有一批基礎設施缺口**:成本模型未接線、Alpaca 分鐘資料未回填、dashboard 面板未接。
 
@@ -23,7 +23,7 @@
 | b4 | 放空可行性:台股借券限制→多頭側先行的誠實範圍 | b3 後 | 多頭側單邊的可實作結論 |
 | b5 | 上櫃(TPEx)擴充:目前只有上市(TWSE);上櫃更小、更散戶 | 選配 | 稀薄套利假說的第二個樣本 |
 | b6 | ✅ **已執行(TR-44,2026-07-20)**:機制穩定(符號+階梯懸崖全維持)但**候選全退為 MARGINAL**(logdv t 2.33→1.86);殖利率隨流動性單調上升=未還原略高估 D1;CAL 抓到還原符號反置 | — | [TR-44](tests/TR-44-taiwan-total-return.md) |
-| **b7** | 🔄 **進行中(2026-07-20 核准)**:籌碼線([docs/28](28-picking-directions-and-vix.md) p1)——法人買賣超+融資融券滴灌中(~4.5h,2 資料集×1,293 檔);**TR-45 F0 已於資料到齊前預先登記**(`scripts/tests/tr45_taiwan_chips.py`:籌碼三特徵 fnet60/itnet60/dmgn60、CAL×3、C1-C4、判定路由全固定);API 欄位已實測驗證(流向單位=股、每檔 2012-05 起;融資單位=張、恆等式成立) | 滴灌到齊(gate ≥1150) | 跑 TR-45 → 歸因+候選判定 |
+| **b7** | ✅ **已執行(TR-45,2026-07-21)**:**MECHANISM-CONFIRMED / MARGINAL**——外資流延續 t=3.34(獨立第四通道,聯合 t=2.91)但頂十分位在**超額基準**下 FAILS-COSTS(超額毛 +0.74%、淨 −4.12%);mom/avol 非外資流所扛;max5 被籌碼完全吸收;**as-run 絕對基準誤判 SIGNAL 由 TR-40 忠實稽核翻正**(教訓入慣例) | — | [TR-45](tests/TR-45-taiwan-chips.md) |
 
 ## 2. 等資料滴灌(不需決策,只需時間)
 
@@ -74,7 +74,7 @@ TR-35 已給實證錨:**利率主導 regime 是裸露面、扛通膨的是金不
 
 | # | 方向 | 觸發 | 完成長什麼樣 |
 |---|---|---|---|
-| **p1** | 台股籌碼線(=b7,見 §1) | 使用者核准 | collector 擴充+預先登記 TR |
+| **p1** | ✅ 台股籌碼線(=b7,見 §1;TR-45 已執行) | — | [TR-45](tests/TR-45-taiwan-chips.md) |
 | **p2** | 美國內部人 Form 4(SEC 官方季度結構化資料集,免費 bulk) | 使用者核准 | collector+CIK↔ticker 對映+預先登記 TR(routine/opportunistic 拆解) |
 | p3 | 小型股滴灌擴容(Tiingo 第二狀態檔,與 B1 並行) | 使用者核准(啟動即可,慢燒) | 名單+狀態檔;面板 TR 於覆蓋到位後 |
 | p4/p5 | 13F 機構持股 / 短倉利率 | 排 p1–p3 之後 | 各一份 TR |
@@ -92,6 +92,6 @@ TR-35 已給實證錨:**利率主導 regime 是裸露面、扛通膨的是金不
 3. ✅ ~~b3 桶經濟性~~(TR-41 已執行:CONCENTRATED,無高容量替代方案)。
 4. **B1 GP 終判**(Tiingo 到 300 檔自動觸發)。
 5. 成本模型接線 + 每月持倉自動化(工程債,便宜)。
-6. 若核准擇股展開(docs/28):**p1 台股籌碼 > p2 內部人 Form 4 > 論文佇列四篇 > p3 小型股滴灌啟動**。
+6. ✅ ~~p1 台股籌碼~~(TR-45:歸因完成、無乾淨候選)。擇股展開下一項:**p2 內部人 Form 4 > 論文佇列四篇 > p3 小型股滴灌啟動**。
 
 *本表隨每次執行更新;完成項移到對應 TR/文件並在此標 ✅ 與 commit。*

diff --git a/docs/18-strategy-registry.md b/docs/18-strategy-registry.md
@@ -46,7 +46,7 @@
 | **3×VOO 每年∧虧損不超過 VOO(本輪 goal 目標)** | **最佳 4/10 年(12-1 季動量);無策略 10/10**;需持續 Calmar~3+,此資料不存在 | `scripts/gate_3x_voo.py` |
 | **吸收比率(KLPR 2010)診斷+閘門** | TR-21(reel→主要來源→一天判定):465 檔個股座位上**不領先大跌**(PIT 百分位 62,p=0.40;忠實尖峰版 4/10 vs 基準率 39%)、與平均相關 +0.97 同物、閘門(含忠實三態)輸靜態 69% 與隨機安慰劑——**擇時鐵律第三案例**;經雙向對抗稽核(反 AR 偏誤已修、美化閘門已修,FAIL 更穩)。**TR-21b 原生座位重測(KF49 產業,1970-2026):水位宣稱反轉(中位 37)、dAR>1 尖峰弱複製(7/10 vs 33%,suggestive)、閘門第 5 次死亡(0.28 vs 0.46)**——診斷半條命回來(棲地特異),擇時結論不變 | TR-21/21b、docs/23 |
 
-### 🧪 標準化測試報告 TR-01~44 + 03b/04b/17b/21b/30b/39b(詳見 docs/tests/;**docs/20 論文佇列全清**;TR-01~08 由稽核員重跑全部腳本、數字一對一吻合)
+### 🧪 標準化測試報告 TR-01~45 + 03b/04b/17b/21b/30b/39b(詳見 docs/tests/;**docs/20 論文佇列全清**;TR-01~08 由稽核員重跑全部腳本、數字一對一吻合)
 | TR | 機制 | 判定 | 摘要 |
 |---|---|---|---|
 | TR-01 | 共整合 pairs 統計套利 | **FAILED** | OOS +2.0%/yr < 現金(BIL +2.7%);文獻錨(GGR 2006 距離法 +11%)為脈絡非重現對象——本 TR 測 EG 共整合建構(T1 回掃 2026-07-18 註記:來源-機器錯配已修語言;兩套獨立建構 EG+docs/13 Kalman 同座位皆虧+Do-Faff 已載距離法衰退);9/10 對集中 AI 半導體、SMCI 醜聞炸出 −29.7% MDD;殘值=|z|>4 當單一股異常警報 |
@@ -96,6 +96,7 @@
 | TR-41 | 台股桶經濟性:溢酬住在哪(docs/27 b3;十分位階梯+兩實作對決+容量前緣) | **CONCENTRATED** | CAL 過(D1 +6.65% vs TR-40 +6.75%);**溢酬只在 D1:D2 已歸零(−0.35%)、D3-D9 全負(最深 D8 −6.25%,t=−3.90)**;**「避開最熱門」(D1-D9)是顯著虧損 −0.92%/yr(t=−2.34)——排除好桶=重壓壞桶,直覺被證偽**;C3 黃金診斷=**啞鈴**(兩端 +6.81%/+1.94% 勝中段 −2.34%),與 TR-33 美股 GP 的「兩端輸中段」方向相反;**跳一個月檢查通過(+6.61%,t=2.31)=不是停滯價/價差彈跳假象**;C4 容量前緣:NT$5,000 萬 +5.29%、NT$1.5 億 +3.19%、NT$5 億 +1.48%(填滿率 19%)=**無高容量替代方案**;三特徵(集中尾端、隨規模單調衰減、通過停滯價檢查)全符 Amihud-Mendelson 流動性補償而非異象 | 
 | TR-42 | L2 股債相關 regime 煞車(風險引擎 v2 第一挑戰者;docs/25 C1) | **EIGHTH TIMING FAILURE** | CAL 過(類比座位重現 TR-35 MDD −14.6%);訊號=36 月滾動股債相關>0(佔 48% 月份,落後一期);**煞車A Calmar 0.57 輸給同平均曝險恆定部位 0.68(恆定在兩軸都贏:MDD −12.6% vs −14.4%、CAGR 8.5% vs 8.3%),且只在隨機煞車安慰劑第 20 百分位=比隨便踩還差**;煞車B(債換金)Calmar 0.41/MDD −25.5% 更糟(金波動;TR-35「金扛通膨」是單腿事實,非組合層可行);**C3 誠實記錄:煞車在設計窗確實有效(停滯性通膨比率 1.04→0.74、1994 1.16→0.82)但 48% 破裂月的機會成本吃光一切**=七次失敗的同一機制;**鐵律 7→8 並擴及「風險輸入型擇時」**(不只別預測報酬,是別依任何 regime 訊號調曝險);主力不動,風險引擎優先序改 L3>L1>L4 | 
 | TR-43 | L3 EVT 尾部模組(風險引擎 v2 第二挑戰者;條件式 GPD vs 現役 Student-t vs 歷史模擬) | **REJECTED** | CAL 過(重現 TR-04b:常態 VaR 99% 被拒 p<1e-4、Student-t 未被拒 p=0.267);**實際座位:EVT 在 99%/99.5% 都被 Kupiec 拒絕(破線 1.82%/0.84%,p=0.000/0.036),現役都沒有(1.24%/0.44%,p=0.267/0.697)——EVT 低估尾部**;EVT 唯一優勢是 CVaR-RMSE(47 vs 90bps)=形狀較準但頻率錯了,無用;類比座位三模型無法分辨(皆過度保守);**C3 誠實條款:三模型的 L 刻度完全相同(0.11-0.12)=就算贏統計也改不了決策**(F0 預寫的 BETTER-BUT-INERT);診斷:EWMA 去波動化假設條件常態骨架,但本帳簿的極端日是**多腿相關跳升**而非單腿波動放大→GPD 從被壓平的殘差外推自然不夠寬(與 TR-05「尾部來源是相關結構非邊際波動」同源);**風險引擎 v2 目前 0/2**(L2 敗擇時鐵律、L3 敗估計檢定),框架如設計運作 | 
+| TR-45 | 台股籌碼線(docs/27 b7;法人買賣超+融資融券 1,220 檔,F0 於資料落地前預先登記 `bc3c1fb`) | **MECHANISM-CONFIRMED / MARGINAL** | CAL 全過(bottom-up 外資淨買 vs 官方聚合 corr **+0.996**、融資恆等式 100%、八特徵覆蓋 808 檔/月);C1:**fnet60 外資流延續 +78.4bps t=3.34**(唯一候選)、itnet60 +1.48、dmgn60 +1.85 且**符號與擁擠反轉先驗相反**(散戶槓桿也延續);C2 歸因:**mom/avol 幾乎不衰減(−7%/+10%)=延續市場不是外資流扛的**,fnet60 為獨立第四通道(聯合 t=2.91),max5 被籌碼完全吸收(+105%,樂透特徵=流向雜訊),logdv 衰減 42%(結構性補償再加固);C3:**as-run 絕對基準誤判 SIGNAL,對照 TR-40 原機器改超額基準後翻 FAILS-COSTS**(超額毛 +0.74%/yr 不過 ≥+40bps/mo 毛閘門、超額淨 −4.12% t=−2.51;駝峰+瀰散階梯,錢在放空側而台股借券受限);C4:冷角落籌碼全在中位=流動性溢酬非流向現象;**教訓入慣例:long-only 桶成本判定一律超額基準** | 
 | TR-44 | 台股判定 × 還原股價(docs/27 b6;官方除權息前後價建還原因子,總報酬基準重跑全套) | **VERDICT-STABLE(機制)/ 但候選全退為 MARGINAL** | CAL 過(中位股利拖累 +3.23%/yr);**CAL-a 先抓到還原符號反置**(raw/factor 讓舊價膨脹→2330 還原 CAGR 反低於未還原,不可能;改 raw×factor);**C1 診斷:殖利率隨流動性單調上升(D10 4.01% > D1 3.13%)=未還原略高估 D1 相對優勢但僅 0.9pp**;C2 三候選符號與 |t|≥2 全穩(mom +86.7 t=2.53、avol +99.7 t=3.75、logdv −79 t=−2.15,logdv 減弱 25% 與診斷一致);C3 階梯仍懸崖+啞鈴(TR-41 複製);**但成本關卡後 logdv 淨 +5.32% t 降到 1.86<2=退為 MARGINAL**;C4 bp 不升反降(+40.8 t=1.32,高殖利率集中在流動大型股非價值股);**台股最終誠實狀態:機制為真但總報酬+全額成本下無一乾淨過關** | 
 | TR-03b | 共變異清理競技場(MP 譜+clipping+特徵向量端 BAHC;docs/20+23) | **clip≈LW 平手;BAHC PARTIAL;LW 慣例確認** | 463 檔 min-var 座位、判準=OOS 實現波動:LW 13.2-14.2%、clip 13.6-14.6%(**同族平手**,docs/20 預測獲支持)、BAHC 14.1-15.5%(贏 naive 沒贏 LW=特徵向量清理在 vol 通道無增值);**稽核抓幽靈資產 bug**(SW 97%/AMCR 45% 平價回填被當免費分散器,美化 LW→已加恰零報酬濾網);「賺回門票」限 vol 通道(淨報酬 inv-variance 全勝);47 檔子面板訊號特徵值中位 4=docs/20 預測在其 N 成立 |
 

diff --git a/docs/28-picking-directions-and-vix.md b/docs/28-picking-directions-and-vix.md
@@ -70,7 +70,7 @@ Hou-Moskowitz price delay)——**資料全在手,隨時可動**,docs/27 §5。
 
 | # | 方向 | 為什麼 | 資料(已驗證) | 成本 | 先驗 |
 |---|---|---|---|---|---|
-| **p1** | **台股籌碼線(b7)**:三大法人買賣超動能/融資擁擠反向/外資持股變動 | 雙重目的:(i) **機制歸因**——我們發現的「延續市場」(mom+avol 正)是誰在推?籌碼資料直接看對手方;(ii) 在**唯一橫斷面還活著的棲地**開一發預先登記的可交易候選。文獻先驗最強(Barber-Odean 台灣線就是用這類資料) | FinMind 免費層:法人買賣超 2005+、融資融券 2001+、外資持股 2004+、借券 2001+(**股權分散表=sponsor 付費,不用**);collector 擴充半天 | $0 | **高**(機制互鎖) |
+| **p1** | ✅ **已執行(TR-45,2026-07-21:機制確認、頂十分位 FAILS-COSTS——見 docs/27 b7)** 台股籌碼線(b7):三大法人買賣超動能/融資擁擠反向/外資持股變動 | 雙重目的:(i) **機制歸因**——我們發現的「延續市場」(mom+avol 正)是誰在推?籌碼資料直接看對手方;(ii) 在**唯一橫斷面還活著的棲地**開一發預先登記的可交易候選。文獻先驗最強(Barber-Odean 台灣線就是用這類資料) | FinMind 免費層:法人買賣超 2005+、融資融券 2001+、外資持股 2004+、借券 2001+(**股權分散表=sponsor 付費,不用**);collector 擴充半天 | $0 | **高**(機制互鎖) |
 | **p2** | **美國內部人 Form 4**:routine/opportunistic 拆解(Cohen-Malloy-Pomorski) | **新資訊通道**,不在既有死亡證書(TR-23/34 殺的是價格/基本面特徵)覆蓋內;月頻低換手,零售可作;先在 S&P 500(價在手)測,小型股腿等 p3 | SEC 官方 Insider Transactions Data Sets:季度結構化免費 bulk(約 2006 起,以官方 readme 為準) | $0 | 中-高(文獻穩健但大型股較弱) |
 | **p3** | **小型/微型股面板加速**(docs/25 C 期既列) | 異象文獻的原生棲地=最大未開採棲地;具體行動只有一個:Tiingo 滴灌名單擴到小型股樣本(第二狀態檔,與 B1 並行) | EDGAR 全覆蓋+Tiingo 免費層 | $0(慢,數月) | 高(文獻一致)但滴灌相依 |
 | p4 | 13F 機構持股:best-ideas/擁擠度 | EDGAR 免費、季頻 45 天滯後;與 GP 驗屍(regime-vs-crowding)互補 | EDGAR | $0 | 中 |